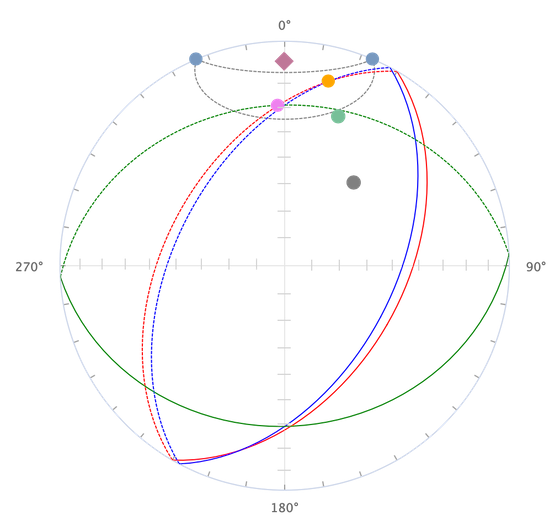
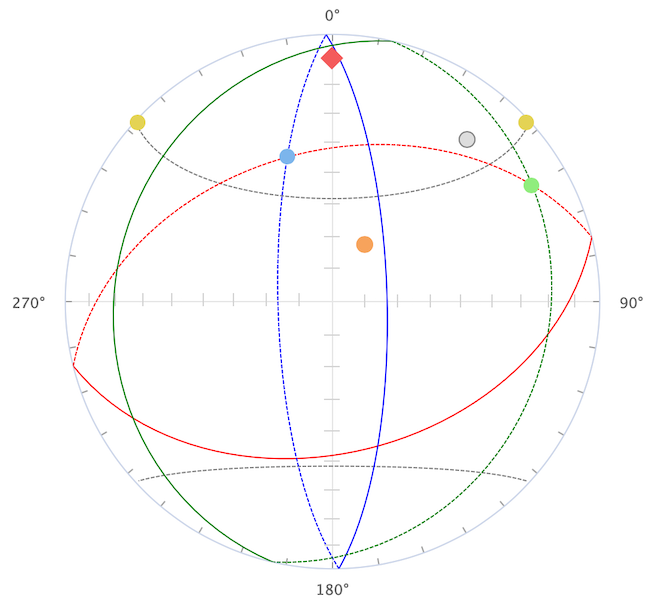
Fix images

diff --git a/ntr/js/index.js b/ntr/js/index.js
@@ -215,21 +215,21 @@ function updateTable(values) {
     "      <th>Reference Vector </th>",
     "      <th>Site Vector </th>",
     "      <th>Pole to Dyke </th>",
-    "       <th>Beta </th>",
+    "       <th>β </th>",
     "     </tr>",
     "   </thead>",
     "   <tbody>",
     "     <tr>",
     "       <td>",
-    "        <br><b>Declination </b>" + values.referencePole.dec.toFixed(1),
+    "        <b>Declination </b>" + values.referencePole.dec.toFixed(1),
     "        <br><b>Inclination </b>" + values.referencePole.inc.toFixed(1),
     "      </td>",
     "      <td>",
-    "        <br><b>Declination </b>" + values.magnetizationVector.dec.toFixed(1),
+    "        <b>Declination </b>" + values.magnetizationVector.dec.toFixed(1),
     "        <br><b>Inclination </b>" + values.magnetizationVector.inc.toFixed(1),
     "      </td>",
     "      <td>",
-    "        <br><b>Declination </b>" + values.dykePole.dec.toFixed(1),
+    "        <b>Declination </b>" + values.dykePole.dec.toFixed(1),
     "        <br><b>Inclination </b>" + values.dykePole.inc.toFixed(1),
     "      </td>",
     "      <td>" + values.beta.toFixed(1) + "</td>",
@@ -314,7 +314,7 @@ function plotNTRData(values) {
   plotSeries = new Array();
 
   // Draw a small circle around the reference pole with angle beta
-  var sCircle = getPlaneData(values.referencePole, values.beta);
+  betaCircle = flipEllipse(values.referencePole.inc, getPlaneData(values.referencePole, values.beta));
 
   // Get the bisecting planes
   var kPlane = getPlaneData(values.k.toVector(Direction), 90);
@@ -377,7 +377,7 @@ function plotNTRData(values) {
     "name": "Beta",
     "type": "line",
     "turboThreshold": 0,
-    "data": sCircle,
+    "data": betaCircle,
     "color": "grey",
     "dashStyle": "ShortDash",
     "enableMouseTracking": false,
@@ -719,7 +719,7 @@ function finish(results, values) {
   }, {
     "name": "Solution 1 (Confidence Interval)",
     "type": "scatter",
-    "color": HIGHCHARTS_RED,
+    "color": HIGHCHARTS_GREEN,
     "data": intersectionArray1,
     "marker": {
       "symbol": "circle",
@@ -821,24 +821,13 @@ function drawGraph(plotSeries, container) {
   // Specify chart options for equal area projection
   var chartOptions = {
     "chart": {
-      "backgroundColor": "rgba(255, 255, 255, 0)",
       "id": container,
       "polar": true,
       "animation": true,
       "renderTo": container, 
     },
-    "tooltip": {
-      "borderColor": "rgb(119, 152, 191)",
-    },
     "legend": {
-      "title": {
-        "text": "NTR Analysis Legend"
-      },
-      "enabled": true,
-      "align": container === "iterationPlot" ? "middle" : "left",
-      "verticalAlign": container === "iterationPlot" ? "bottom" : "middle",
-      "layout": container === "iterationPlot" ? "horizontal" : "vertical",
-      "floating": container === "iterationPlot" ? true : false
+      "enabled": true
     },
     "title": {
       "text": "NTR Analysis",
@@ -865,9 +854,7 @@ function drawGraph(plotSeries, container) {
     },
     "exporting": { 
       "enabled": true,
-      "sourceWidth": 800,
       "filename": "NTR",
-      "sourceHeight": 800,
       "buttons": {
         "contextButton": {
           "symbolStroke": "#7798BF",
@@ -876,7 +863,7 @@ function drawGraph(plotSeries, container) {
       }
     },
     "credits": {
-      "enabled": true,
+      "enabled": ENABLE_CREDITS,
       "text": "Paleomagnetism.org (NTR Analysis) - <i> after Allerton and Vine, 1987, Morris et al., 1998 </i>",
       "href": ""
     },
@@ -904,8 +891,13 @@ function drawGraph(plotSeries, container) {
     "series": plotSeries,
   };
 
-  chartFoldLeft = new Highcharts.Chart(chartOptions); //Initialize chart with specified options.
-  $("#" + container).show().css("display", "inline-block");
+  if(container !== "iterationPlot") {
+    chartOptions.legend.align = "left";
+    chartOptions.legend.verticalAlign = "middle";
+    chartOptions.legend.layout = "right";
+  }
+
+  chartFoldLeft = new Highcharts.Chart(chartOptions); 
 
 }
 
@@ -995,7 +987,6 @@ function plotWindRose(dataOne, dataTwo, container) {
     },
     "legend": {
       "enabled": true,
-      "floating": true,
     },
     "title": {
       "text": "Original Dyke Pole Density",
@@ -1023,6 +1014,14 @@ function plotWindRose(dataOne, dataTwo, container) {
       "startAngle": 0,
       "endAngle": 360
     },
+    "exporting": {
+      "buttons": {
+        "contextButton": {
+          "symbolStroke": "#7798BF",
+          "align": "right"
+        }
+      }
+    },
     "yAxis": {
       "min": 0,
       "tickPositions": [0, this.max],
@@ -1037,7 +1036,7 @@ function plotWindRose(dataOne, dataTwo, container) {
       }
     },
     "credits": {
-      "enabled": true,
+      "enabled": ENABLE_CREDITS,
       "text": "Paleomagnetism.org (NTR Analysis) - <i> after Allerton and Vine, 1987, Morris et al., 1998 </i>",
       "href": ""
     },

diff --git a/ntr/index.html b/ntr/index.html
@@ -76,8 +76,6 @@
         <div class="alert alert-light" role="alert">
 
             <h5>Paleomagnetism.org 2 - NTR Analysis </h5>
-          <p> The following miscellaneous set of tools can be used for stuff.</p>
-
                 <!-- Tab for NTR Analysis -->
                 <p>The net rotation of a dyke (including any component of tilt and vertical axis rotation) is calculated as a single rotation around an inclined axis, which restores the in situ remanence direction to its initial orientation (reference pole) and the dyke to its initial vertical position. This technique allows the user to calculate the rotation parameters of the deformation experienced by the dyke and its initial orientation.</p>
 
@@ -125,17 +123,18 @@
                             </div>
                         </td>
 <td>
-                <button class="btn btn-success" id="initializeNTR"> Initialize NTR Analysis </button></td>
+                <button class="btn btn-success" id="initializeNTR"> NTR Analysis </button></td>
                                           </tbody>
                 </table>
         </div>
         <p>
-            <div id="NTRInputTable" style="display: none;"></div>
-            <div id="initialPlot" style="margin: 0 auto; display: none;"></div>
-            <p>
-                <div id="NTRSolutionTable" style="display: none;"></div>
-                <p>
                     <div id="interationDiv" style="display: none;">
+            <div id="NTRInputTable"></div>
+            <p>
+            <div id="initialPlot"></div> 
+                <div id="NTRSolutionTable"></div>
+                <p>
+
                         <hr>
         <div class="alert alert-light" role="alert">
 
@@ -163,7 +162,7 @@
                                         <td>
                                             <input class="form-control" type="text" size="5" id="confDyke" placeholder="Dyke Pole α95"> </td>
                                         <td>
-                                            <button class="btn btn-success" id="iterationButton"> Iterate </button>
+                                            <button class="btn btn-success" id="iterationButton"><i class="fas fa-spinner"></i> Iterate </button>
                                         </td>
                                     </tbody>
                                 </table>
@@ -172,8 +171,15 @@
                                         <div id="ntr-progress" class="progress-bar progress-bar-striped progress-bar-animated" style="width: 0%; transition: none;"></div>
                                     </div>
                                     <p>
-                                        <div id="iterationPlot" style="width: 45%; height: 700px; margin: 0 auto; display: none;"></div>
-                                        <div id="windrosePlot" style="width: 45%; height: 700px; margin: 0 auto; display: none;"></div>
+
+                                    <div class="row">
+                                      <div class="col-xl-6">
+                                        <div id="iterationPlot"></div>
+                                      </div>
+                                      <div class="col-xl-6">
+                                        <div id="windrosePlot"></div>
+                                      </div>
+                                    </div>
 
                                         <footer id="footer-container" class="container text-muted"></footer>
 

diff --git a/miscellaneous/index.html b/miscellaneous/index.html
@@ -75,7 +75,7 @@
 
         <div class="alert alert-light" role="alert">
           <h5>Paleomagnetism.org 2 - Miscellaneous Portal </h5>
-          <p> The following miscellaneous set of tools can be used for stuff.
+          <p> The following set of miscellaneous tools do not fit within one of the portals. Tools that are not yet ported can be found on the <a href="http://old.paleomagnetism.org">old website</a>.
         </div>
 
 
@@ -84,9 +84,9 @@
     <div class="card" style="border: none;">
     <img style="" class="card-img-top" src="../resources/images/NTR.png" alt="Card image cap">
     <div class="card-body">
-      <h5 class="card-title"><a href="../ntr/"><i class="fa fa-dice"></i> Net Tectonic Rotation</a></h5>
+      <h5 class="card-title"><a href="../ntr/"><i class="fas fa-undo"></i> Net Tectonic Rotation</a></h5>
      <hr>
-      <p class="card-text text-muted text-justify">This tool can be used to parametrically sample a Fisherian distribution of poles or directions and generate declination, inclination pairs.</p>
+      <p class="card-text text-muted text-justify">This tool can restore the orientation of dyke with a geomagnetic reference to its original vertical position.</p>
     </div>
   </div>
 

diff --git a/references/index.html b/references/index.html
@@ -135,7 +135,7 @@
         <br>
 
         <div class="card">
-          <h5 class="card-header"> Tectonics Portal </h5>
+          <h5 class="card-header"> Geography Portal </h5>
           <div class="card-body">
             <h5 class="card-title text-truncate"><span class="badge badge-light"><a href="https://www.doi.org/10.1016/j.earscirev.2012.06.007"><i class="fas fa-globe-americas"></i> 10.1016/j.earscirev.2012.06.007</a></span></h5>
             <p class="card-text">Torsvik et al., Phanerozoic polar wander, palaeogeography and dynamics Source of the Document Earth-Science Reviews 114 (3-4), pp. 325-368 (2012).</p>
